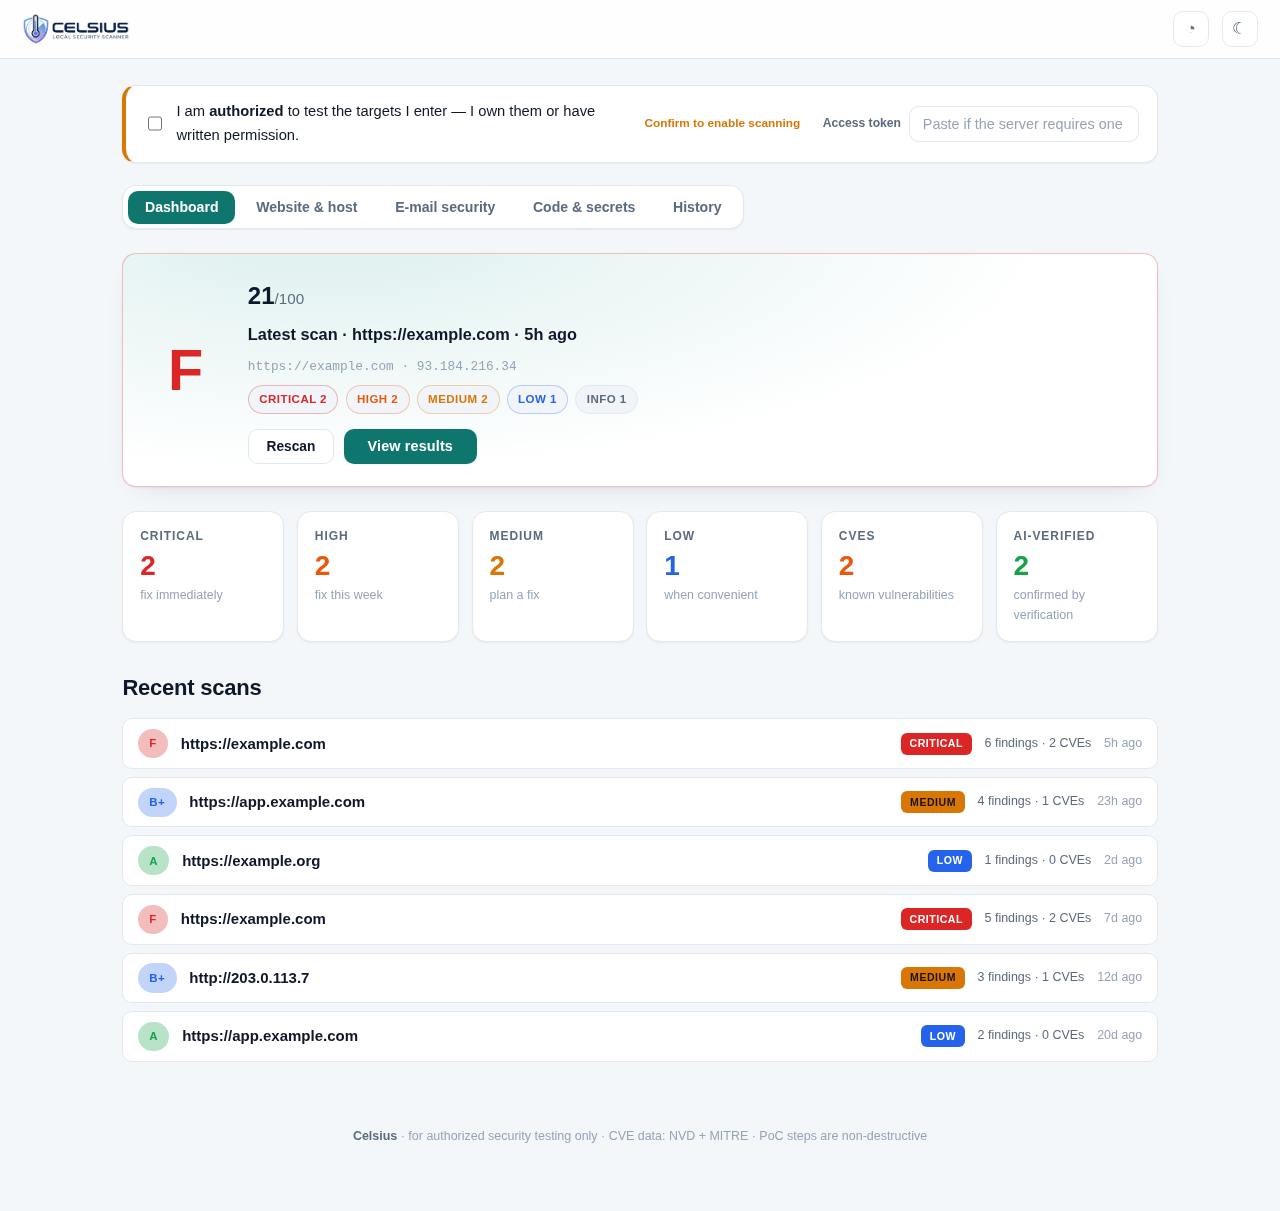
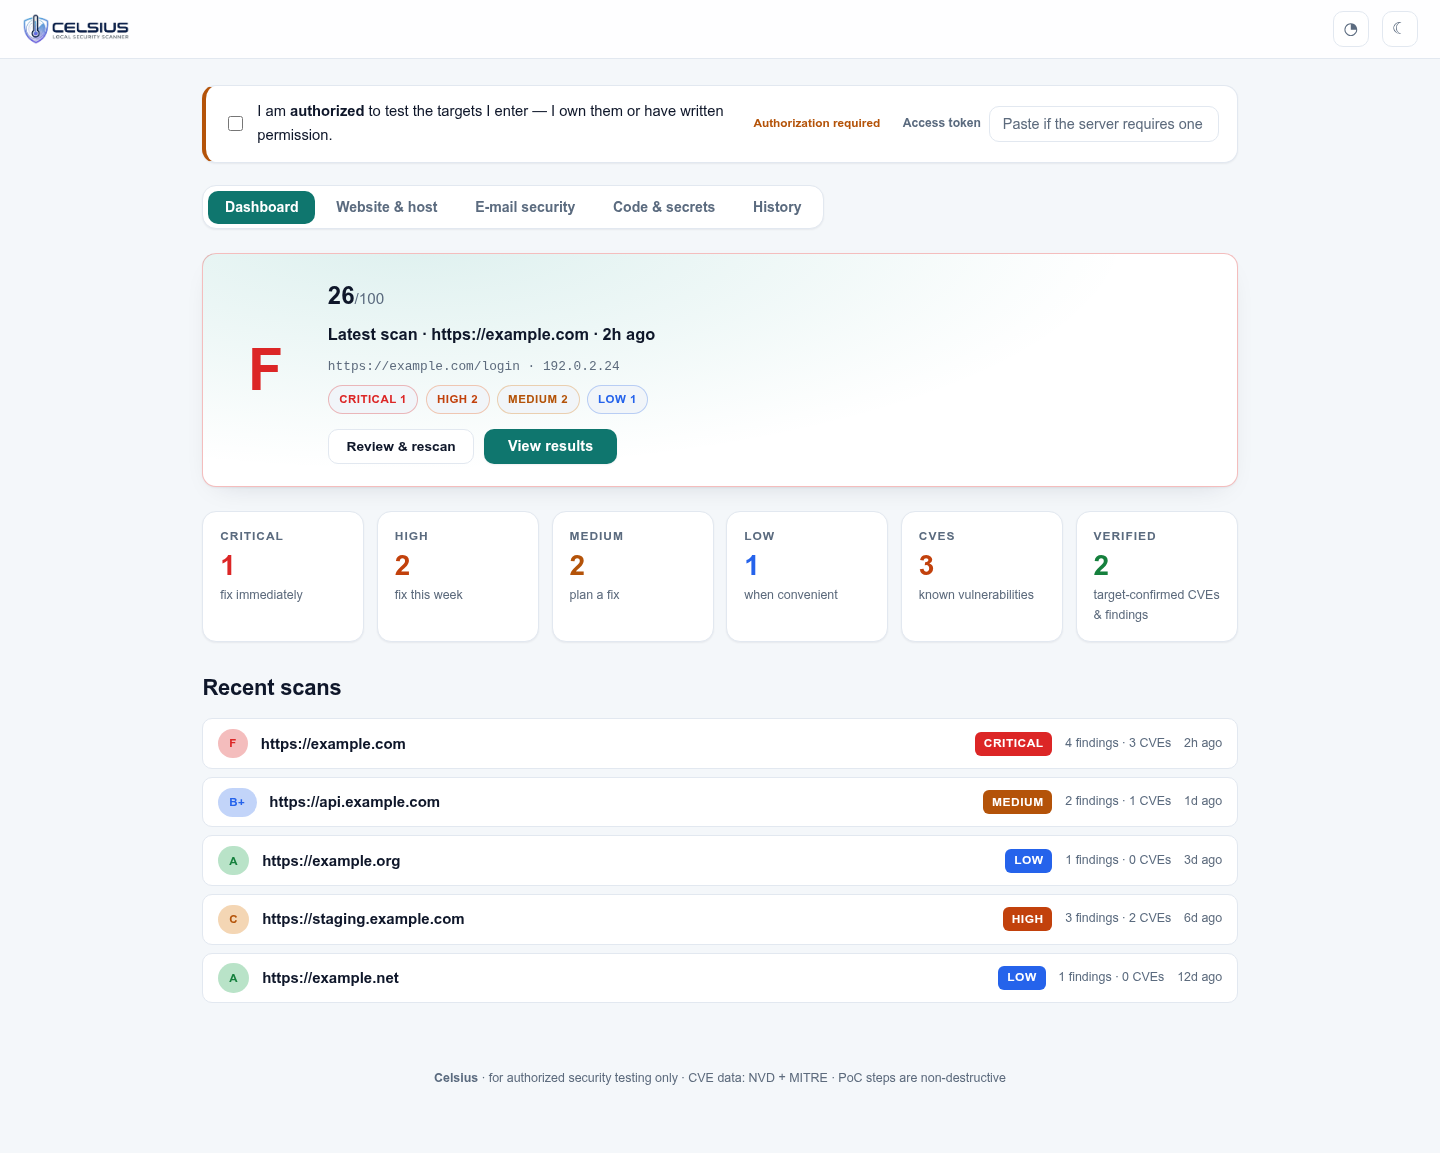
docs: refresh web UI screenshots

diff --git a/README.md b/README.md
@@ -26,13 +26,16 @@ CORS/JWT/takeover checks · email security · an **agentic AI proof loop** —
 
 ## Screenshots
 
+*Interface previews use simulated results, reserved example domains, and
+documentation-only IP addresses. No live targets were scanned.*
+
 <p align="center">
-  <img src="docs/screenshot-home.png" alt="Celsius web UI" width="820">
+  <img src="docs/screenshot-home.png" alt="Celsius dashboard — latest scan, severity metrics and recent history" width="820">
 </p>
 <table>
 <tr>
-  <td width="50%"><img src="docs/screenshot-scan.png" alt="Scan results"><br><em>Scan results — grade, fix-first plan, AI advisor, findings, JSON/MD/SARIF/HTML export</em></td>
-  <td width="50%"><img src="docs/screenshot-mail.png" alt="Email security scorecard"><br><em>Email security — SPF/DKIM/DMARC/MTA-STS graded A–F with exact fixes</em></td>
+  <td width="50%"><img src="docs/screenshot-scan.png" alt="Celsius scan results with filterable CVE triage"><br><em>Scan results — risk charts, coverage &amp; confidence, prioritized fixes, and searchable CVE/finding triage</em></td>
+  <td width="50%"><img src="docs/screenshot-mail.png" alt="Email security scorecard"><br><em>Email security — passive SPF/DKIM/DMARC/MTA-STS checks with grades and exact fixes</em></td>
 </tr>
 </table>
 
